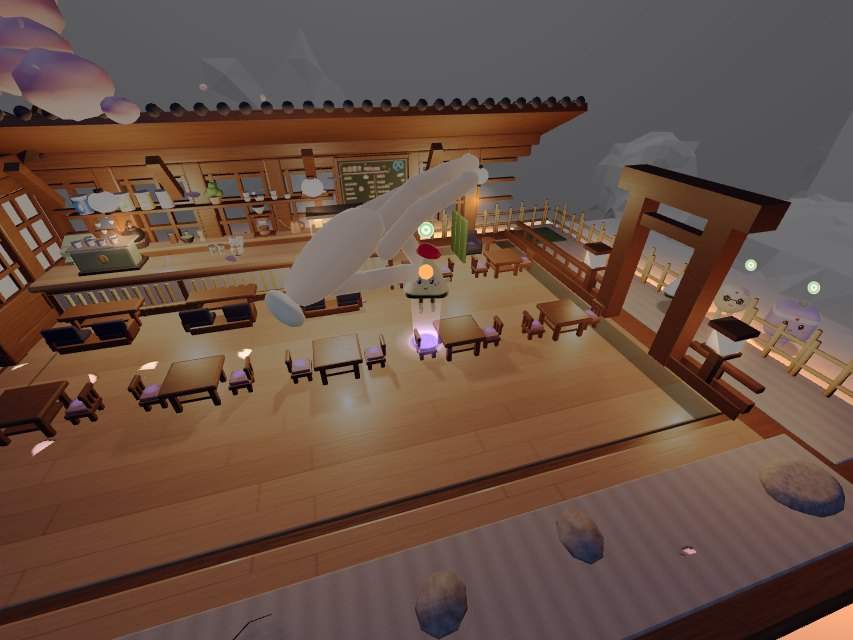
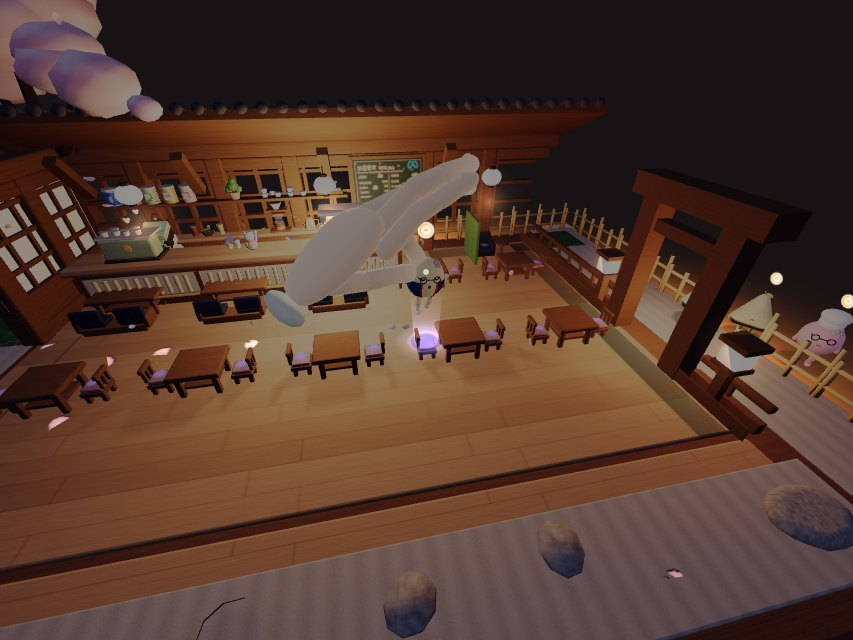
New How to play pictures; plain STE text
The pictures showed the old side board and the emulator's grey room.
They are taken again from the current game on a plain dark ground:
pinch a guest, seat the guest, the scoreboard over the café, and the
round pause button (for the first run's last step). The held guest's
name card is left out of them.

The How to play and first-run text is rewritten in short, active
sentences with one action each (ASD-STE100 style).

Claude-Session: https://claude.ai/code/session_01CFBC6GdxdukDFr7uJVy4bD

diff --git a/cafe-chaos/game/src/systems/game-system.ts b/cafe-chaos/game/src/systems/game-system.ts
@@ -79,14 +79,18 @@ const MM = 2.4;
 
 /**
  * The game in three pictures, taken from the game itself
- * (scripts/shoot-howto.mjs). How to play shows all three; the first run's
+ * (scripts/shoot-howto.mjs). How to play shows the first three; the first run's
  * coach card shows the one for the step in hand.
  */
 const MOVES = [
-  { picture: 'howto-pinch.jpg', title: 'Pinch a guest', text: 'Hold your fingers over a guest at the gate. When it lights up, pinch.' },
-  { picture: 'howto-seat.jpg', title: 'Seat them', text: 'Carry them over the café and let go. They take the glowing seat.' },
-  { picture: 'howto-hire.jpg', title: 'Pause & hire', text: 'Press the round button by the café to pause. Hire servers there too.' },
+  { picture: 'howto-pinch.jpg', title: 'Pinch a guest', text: 'Put your fingers above a guest at the gate. When the guest glows, pinch.' },
+  { picture: 'howto-seat.jpg', title: 'Seat the guest', text: 'Move the guest above the café. Open your fingers. The guest goes to the seat that glows.' },
+  { picture: 'howto-happy.jpg', title: 'Keep guests happy', text: 'Seat guests quickly. The bar above the café shows how happy the guests are.' },
+  // The coach card only (How to play shows the first three).
+  { picture: 'howto-pause.jpg', title: 'Pause and hire', text: 'Push the round button near the café to pause. You can hire baristas there.' },
 ];
+/** How many of the MOVES How to play shows. */
+const HOW_MOVES = 3;
 /** The bank is saved this often during a run (seconds), so little is lost if the page is closed. */
 const AUTOSAVE_SECONDS = 20;
 
@@ -452,7 +456,7 @@ export class GameSystem extends createSystem({}) {
         const gap = w * 0.025;
         const x0 = (w - 3 * pw - 2 * gap) / 2;
         const y0 = h * 0.18;
-        MOVES.forEach((move, i) => {
+        MOVES.slice(0, HOW_MOVES).forEach((move, i) => {
           const x = x0 + i * (pw + gap);
           picture(ctx, this.pictures[i], x, y0, pw, ph, 5 * MM);
           badge(ctx, i + 1, x + 6.5 * MM, y0 + 6.5 * MM, 6.5 * MM);
@@ -936,10 +940,10 @@ export class GameSystem extends createSystem({}) {
  */
 function firstRun(): Step[] {
   return [
-    { picture: 0, title: MOVES[0].title, text: 'Hold your fingers over the guest at the gate. When it lights up, pinch.', done: (g) => g.guests.pickedUp > g.mark.pickedUp },
-    { picture: 1, title: MOVES[1].title, text: 'Carry them over the café and let go. They take the glowing seat.', done: (g) => g.guests.seated > g.mark.seated },
-    { picture: 2, title: 'Here comes their tea', text: 'Fed guests pay. Keep them happy: the board above the café shows how they feel.', done: (g) => g.baristas.servedCount > g.mark.served },
-    { picture: 2, title: 'Pause & hire', text: 'The round button by the café pauses it. Hire servers and see how to play there too.', next: true, done: () => false },
+    { picture: 0, title: MOVES[0].title, text: 'Put your fingers above the guest at the gate. When the guest glows, pinch.', done: (g) => g.guests.pickedUp > g.mark.pickedUp },
+    { picture: 1, title: MOVES[1].title, text: MOVES[1].text, done: (g) => g.guests.seated > g.mark.seated },
+    { picture: 2, title: 'The guest gets tea', text: 'Guests pay when they get their tea. The bar above the café shows how happy the guests are.', done: (g) => g.baristas.servedCount > g.mark.served },
+    { picture: 3, title: MOVES[3].title, text: MOVES[3].text, next: true, done: () => false },
   ];
 }
 
